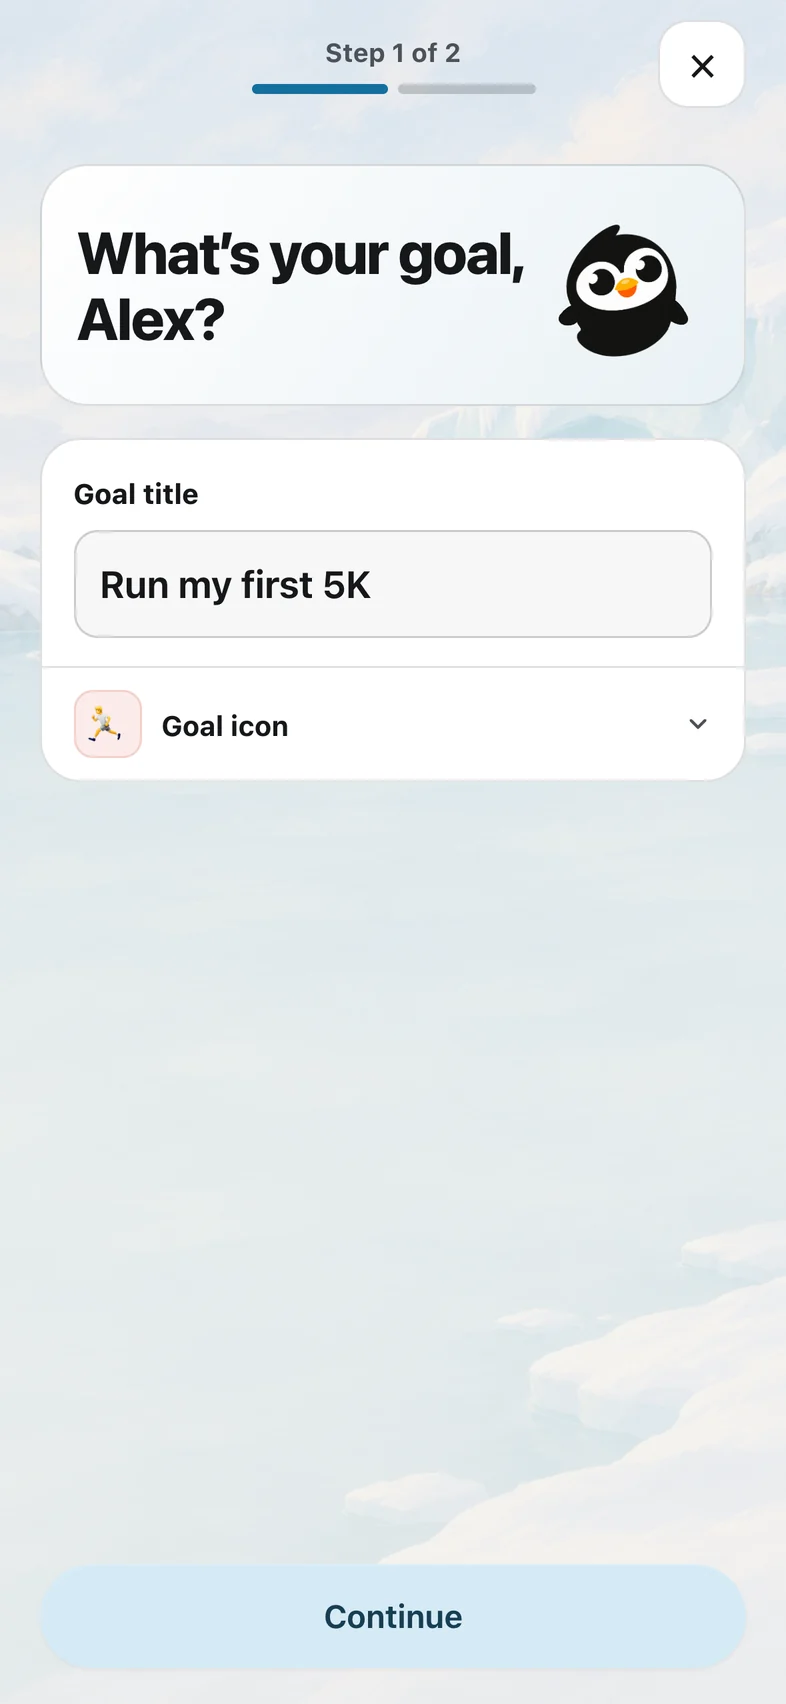
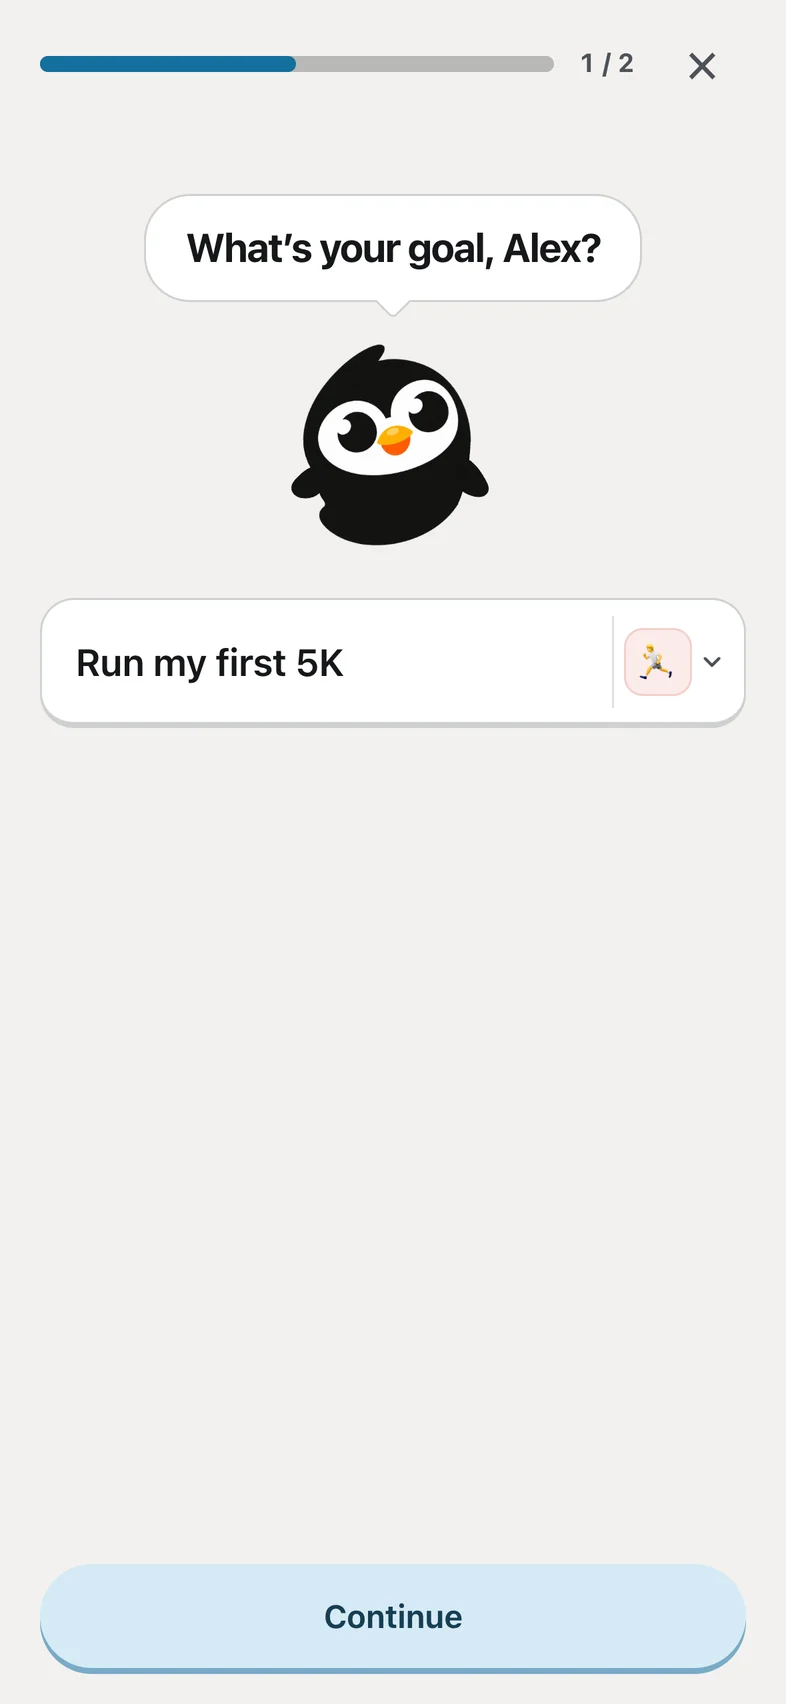
Disclose Cloudflare-hosted Gemma goal drafts

diff --git a/privacy.html b/privacy.html
@@ -52,7 +52,7 @@
 
   <main id="main" tabindex="-1" class="page">
     <h1>Privacy Policy</h1>
-    <p class="updated">Last updated: November 17, 2026 · Applies to the Nivolo iOS app and nivolo.app</p>
+    <p class="updated">Last updated: November 22, 2026 · Applies to the Nivolo iOS app and nivolo.app</p>
 
     <p class="lede">Nivolo is a habit and goal app built to be private by default. It has no cloud account system, analytics, advertising, or trackers. Almost everything you create lives only on your iPhone. This policy explains the exceptions in detail — what leaves your device, when, who processes it, how long it is kept, and what you can ask us to do about it.</p>
 
@@ -125,7 +125,7 @@
       <li>Your <strong>random app ID</strong> and a session identifier, so a redraft of the same goal counts once.</li>
       <li>If you are a Nivolo Plus member, <strong>Apple's signed record of your subscription</strong> (the StoreKit transaction the App Store gives the app). Our server checks Apple's signature on it to confirm the membership. It contains the product, the purchase and renewal dates, the App Store country, transaction identifiers and the price — never your name, Apple ID, email address or payment details.</li>
     </ul>
-    <p>This text is used once, to generate that plan, and is returned to your device. Please avoid typing anything you would not want processed by a third-party AI provider — health details, financial details, or other people's personal information — into a goal you send to the AI. Writing goals by hand instead sends nothing at all.</p>
+    <p>In supported regions, after you accept the updated AI sharing notice, Cloudflare runs Google’s Gemma model to draft your plan. The goal text is processed on Cloudflare’s infrastructure. Older app versions use Anthropic for drafts. In mainland China, Alibaba Cloud processes drafts when available. This text is used once, to generate that plan, and is returned to your device. Please avoid typing anything you would not want processed by a third-party AI provider — health details, financial details, or other people's personal information — into a goal you send to the AI. Writing goals by hand instead sends nothing at all.</p>
 
     <h3>AI reminder suggestion</h3>
     <p>If you ask Nivolo Plus to suggest a reminder time, it sends your goal title, the availability you type, and your language to generate a draft. Our server verifies the signed subscription record described above. You review and save the time before a reminder is scheduled.</p>
@@ -167,12 +167,12 @@
           </tr>
           <tr>
             <td><strong>Cloudflare</strong></td>
-            <td>Hosts nivolo.app, our AI server, the Early Supporter record, and the launch list (Workers, Durable Objects, and KV); provides DNS and email routing</td>
+            <td>Runs the Gemma goal-drafting model through Workers AI and hosts nivolo.app, our AI server, the Early Supporter record, and the launch list (Workers, Durable Objects, and KV); provides DNS and email routing</td>
             <td>The AI request contents in transit, your IP address as an ordinary part of making a network connection (and as the key of short-lived rate limits), the fair-use counters described above, Apple-signed purchase records used to verify Early Supporter eligibility and the stored hashes of winning subscription identifiers, and the email address you voluntarily submit to the launch list.</td>
           </tr>
           <tr>
             <td><strong>Anthropic</strong> (Claude API)</td>
-            <td>Generates chat replies, plans, reminder suggestions and insights in regions Anthropic supports</td>
+            <td>Generates chat replies, reminder suggestions, insights and goal drafts from older app versions in regions Anthropic supports</td>
             <td>Only the text, language and activity summaries needed for the feature, forwarded by our server. Under Anthropic's commercial API terms, inputs and outputs are not used to train their models, and they are deleted from Anthropic's systems within their published retention window. Anthropic does not receive your IP address, your name, or any identifier from your device.</td>
           </tr>
           <tr>
@@ -221,7 +221,7 @@
         </thead>
         <tbody>
           <tr><td>Everything stored on your device (section 2)</td><td>Until you delete it in the app, reset the app, or delete the app. We cannot delete it for you, and we cannot see it.</td></tr>
-          <tr><td>AI prompt text, chat windows and weekly stats</td><td>Not stored by us. Processed in memory to produce a response, then discarded. Anthropic holds it only for the short period described in their API retention policy.</td></tr>
+          <tr><td>AI prompt text, chat windows and weekly stats</td><td>Not stored by us. Processed in memory to produce a response, then discarded. For requests sent to Anthropic, its published API retention window applies.</td></tr>
           <tr><td>Per-minute request limits</td><td>Held in Cloudflare's rate limiter for about a minute; not stored by us.</td></tr>
           <tr><td>Per-network daily count of new free drafts (keyed by IP address)</td><td>Expires automatically after 2 days.</td></tr>
           <tr><td>Free daily chat usage (keyed by random app ID)</td><td>Expires automatically after 2 days.</td></tr>
@@ -245,7 +245,7 @@
     </ul>
 
     <h2 id="transfers" class="anchor">10. International transfers</h2>
-    <p>Cloudflare Workers run at edge locations worldwide, so an AI request or launch-list signup is typically handled near you; Anthropic processes AI request text on infrastructure in the United States, and launch-list notifications are delivered to a Google-hosted inbox. If you are in the EEA or the UK, this data may be transferred outside your region. These transfers rely on the providers' Standard Contractual Clauses and equivalent safeguards. App data described in section 2 never leaves your device.</p>
+    <p>Cloudflare Workers run at edge locations worldwide, so an AI request or launch-list signup is typically handled near you; Cloudflare processes Gemma goal drafts on its infrastructure, Anthropic processes the AI requests routed to it on infrastructure in the United States, and launch-list notifications are delivered to a Google-hosted inbox. If you are in the EEA or the UK, this data may be transferred outside your region. These transfers rely on the providers' Standard Contractual Clauses and equivalent safeguards. App data described in section 2 never leaves your device.</p>
 
     <h2 id="rights" class="anchor">11. Your privacy rights</h2>
     <p>Depending on where you live, you may have the right to access, correct, delete, restrict or object to the processing of your personal data, to withdraw consent, and to data portability. Here is how each one works in practice for an app with no cloud account system:</p>

diff --git a/index.html b/index.html
@@ -148,7 +148,7 @@
   ]
 }
   </script>
-<!-- Nivolo release: seamless-flippers-20261120 -->
+<!-- Nivolo release: gemma-goal-privacy-20261122 -->
   <link rel="stylesheet" href="assets/mythic-edition.css?v=20261111-size" />
 </head>
 <body class="short-home premium-home">
@@ -296,7 +296,7 @@
       <ol class="steps reveal" data-stagger="50">
         <li class="step">
           <div class="step-art step-art--screen step-art--goal" aria-hidden="true">
-            <img class="step-app-screen" src="assets/screens/current-new-goal.webp?v=430d32f223a0" width="393" height="852" loading="lazy" alt="" />
+            <img class="step-app-screen" src="assets/screens/current-new-goal.webp?v=7e102e05f9c4" width="393" height="852" loading="lazy" alt="" />
           </div>
           <span class="step-num">1</span>
           <h3>Name the goal</h3>
@@ -329,11 +329,11 @@
       <div class="app-screen-preview" aria-label="Inside Nivolo">
         <div class="app-screen-card">
           <span class="app-screen-label"><b>Your day</b><span>01</span></span>
-          <span class="app-screen-stage"><span class="phone"><img src="assets/screens/current-home.webp?v=887dcfb53140" width="393" height="852" loading="lazy" alt="Nivo above the Learn guitar goal and its current step, Play a full song slowly." /></span></span>
+          <span class="app-screen-stage"><span class="phone"><img src="assets/screens/current-home.webp?v=e035358de3ab" width="393" height="852" loading="lazy" alt="Nivo above the Learn guitar goal and its current step, Play a full song slowly." /></span></span>
         </div>
         <div class="app-screen-card">
           <span class="app-screen-label"><b>A new goal</b><span>02</span></span>
-          <span class="app-screen-stage"><span class="phone"><img src="assets/screens/current-new-goal.webp?v=430d32f223a0" width="393" height="852" loading="lazy" alt="New goal: Run my first 5K with a running emoji selected." /></span></span>
+          <span class="app-screen-stage"><span class="phone"><img src="assets/screens/current-new-goal.webp?v=7e102e05f9c4" width="393" height="852" loading="lazy" alt="New goal: Run my first 5K with a running emoji selected." /></span></span>
         </div>
         <div class="app-screen-card">
           <span class="app-screen-label"><b>One small action</b><span>03</span></span>
@@ -362,7 +362,7 @@
         </div>
         <div class="app-screen-card">
           <span class="app-screen-label"><b>The bigger picture</b><span>08</span></span>
-          <span class="app-screen-stage"><span class="phone"><img src="assets/screens/current-profile.webp?v=689a94753edc" width="393" height="852" loading="lazy" alt="Profile: Nivo, level progress, and a weekly activity chart." /></span></span>
+          <span class="app-screen-stage"><span class="phone"><img src="assets/screens/current-profile.webp?v=2e1b39767542" width="393" height="852" loading="lazy" alt="Profile: Nivo, level progress, and a weekly activity chart." /></span></span>
         </div>
       </div>
       <p class="app-gallery-note">Actual app screens · Sample goals shown <span aria-hidden="true">↔</span></p>
